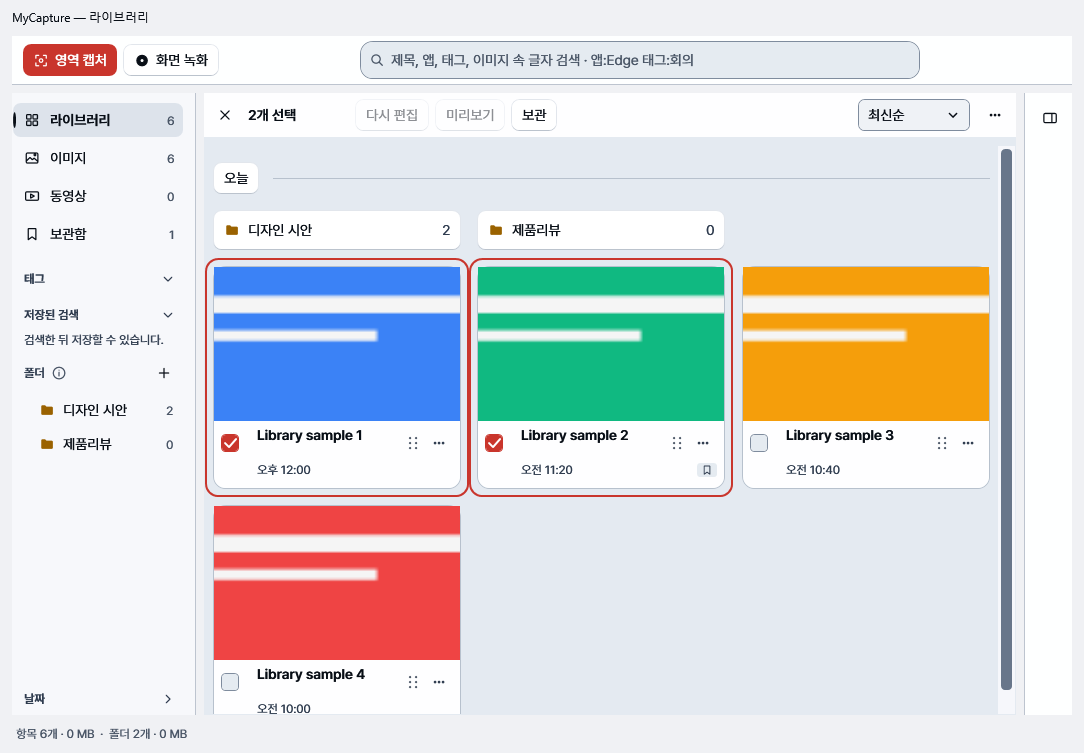
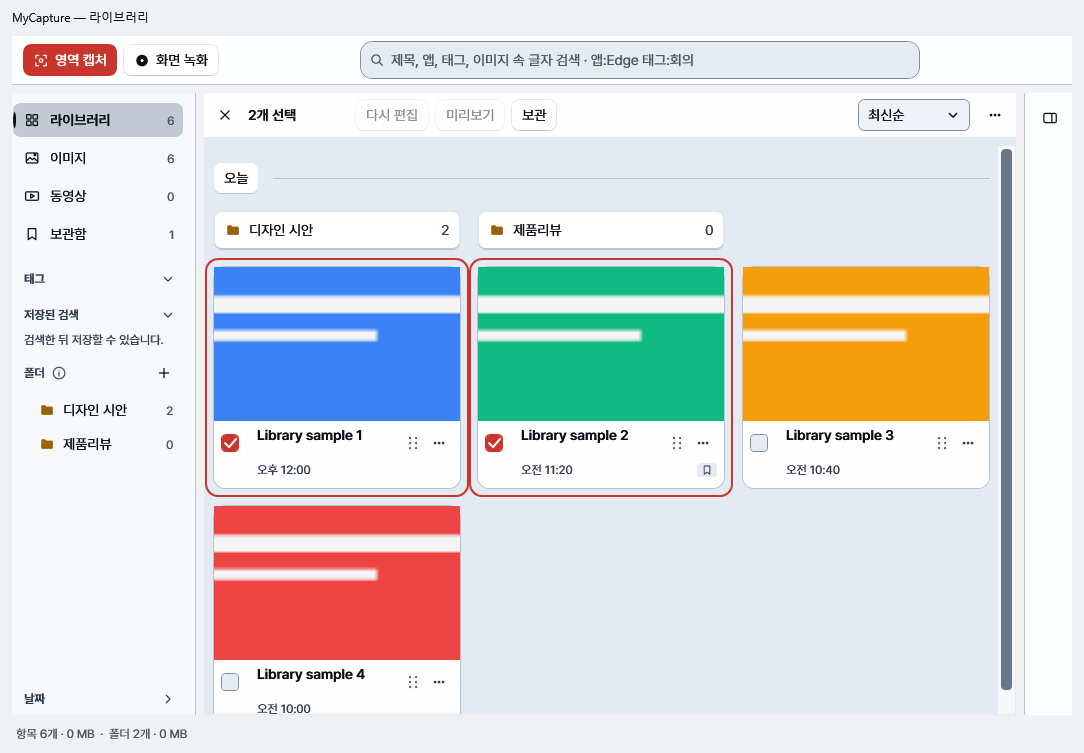
Constrain recycled library rows and strengthen accessible selection states

diff --git a/src/MyCapture.App/Gallery/GalleryWindow.xaml b/src/MyCapture.App/Gallery/GalleryWindow.xaml
@@ -756,10 +756,11 @@
             <Setter Property="FontSize" Value="{DynamicResource FontSize.Body}" />
             <Setter Property="Margin" Value="8" />
             <Setter Property="Padding" Value="10,6" />
+            <Setter Property="BorderThickness" Value="2" />
             <Setter Property="HorizontalContentAlignment" Value="Stretch" />
             <Style.Triggers>
-                <DataTrigger Binding="{Binding IsSelected}" Value="True"><Setter Property="BorderBrush" Value="{DynamicResource Border.Focus}" /></DataTrigger>
                 <DataTrigger Binding="{Binding IsDropAvailable}" Value="True"><Setter Property="BorderBrush" Value="{DynamicResource Accent.Folder}" /></DataTrigger>
+                <DataTrigger Binding="{Binding IsSelected}" Value="True"><Setter Property="BorderBrush" Value="{DynamicResource Accent.Default}" /></DataTrigger>
                 <DataTrigger Binding="{Binding IsDropTarget}" Value="True"><Setter Property="Background" Value="{DynamicResource Surface.Selected}" /><Setter Property="BorderThickness" Value="2" /></DataTrigger>
             </Style.Triggers>
         </Style>
@@ -769,11 +770,17 @@
                     Click="OnFolderCardClick" PreviewKeyDown="OnFolderCardKeyDown">
                 <Grid>
                     <Grid.ColumnDefinitions><ColumnDefinition Width="Auto" /><ColumnDefinition Width="*" /><ColumnDefinition Width="Auto" /></Grid.ColumnDefinitions>
-                    <themes:SymbolIcon StrokeThickness="0" Size="16" Data="{StaticResource LibraryUx.Icon.Folder}" Fill="{DynamicResource Accent.Folder}" VerticalAlignment="Center" />
+                    <themes:SymbolIcon x:Name="FolderGlyph" StrokeThickness="0" Size="16" Data="{StaticResource LibraryUx.Icon.Folder}" Fill="{DynamicResource Accent.Folder}" VerticalAlignment="Center" />
+                    <CheckBox Style="{StaticResource Gallery.SelectionCheckBox}" IsChecked="{Binding IsSelected, Mode=OneWay}"
+                              Visibility="{Binding IsSelected, Converter={StaticResource BoolToVisibility}}" Width="18" MinHeight="18"
+                              IsHitTestVisible="False" Focusable="False" IsTabStop="False" />
                     <TextBlock Grid.Column="1" Text="{Binding Name}" Margin="8,0" TextTrimming="CharacterEllipsis" VerticalAlignment="Center" />
                     <TextBlock Grid.Column="2" Text="{Binding CaptureCount}" Foreground="{DynamicResource Text.Secondary}" VerticalAlignment="Center" />
                 </Grid>
             </Button>
+            <DataTemplate.Triggers>
+                <DataTrigger Binding="{Binding IsSelected}" Value="True"><Setter TargetName="FolderGlyph" Property="Visibility" Value="Hidden" /></DataTrigger>
+            </DataTemplate.Triggers>
         </DataTemplate>
 
         <DataTemplate x:Key="Gallery.FolderRowTemplate" DataType="{x:Type gallery:GalleryFolderRow}">
@@ -788,6 +795,7 @@
         <Style x:Key="Gallery.RowContainer" TargetType="ListBoxItem">
             <Setter Property="Margin" Value="0" />
             <Setter Property="Padding" Value="0" />
+            <Setter Property="MaxWidth" Value="{Binding ActualWidth, RelativeSource={RelativeSource AncestorType=ScrollContentPresenter}}" />
             <Setter Property="HorizontalContentAlignment" Value="Stretch" />
             <Setter Property="Focusable" Value="False" />
             <Setter Property="Template">
@@ -951,7 +959,7 @@
                                 <Border x:Name="Chrome" Background="Transparent" BorderBrush="Transparent" BorderThickness="1"
                                         CornerRadius="{DynamicResource Radius.Md}" />
                                 <Border x:Name="HoverLayer" Style="{StaticResource LibraryUx.HoverWash}" BorderThickness="1" />
-                                <Border x:Name="SelectedLayer" Style="{StaticResource LibraryUx.SelectedWash}" BorderThickness="1" />
+                                <Border x:Name="SelectedLayer" Style="{StaticResource LibraryUx.SelectedWash}" BorderBrush="{DynamicResource Accent.Default}" BorderThickness="2" />
                                 <Border x:Name="Indicator" Style="{StaticResource StatePart.Normal}" Width="3" Height="16" Margin="1,0,0,0"
                                         HorizontalAlignment="Left" VerticalAlignment="Center"
                                         Background="{DynamicResource Text.Primary}" CornerRadius="{DynamicResource Radius.Pill}"
@@ -1010,12 +1018,18 @@
                     <ColumnDefinition Width="*" />
                     <ColumnDefinition Width="Auto" />
                 </Grid.ColumnDefinitions>
-                <themes:SymbolIcon StrokeThickness="0" Size="16" Data="{StaticResource LibraryUx.Icon.Folder}"
+                <themes:SymbolIcon x:Name="FolderGlyph" StrokeThickness="0" Size="16" Data="{StaticResource LibraryUx.Icon.Folder}"
                       Fill="{DynamicResource Accent.Folder}" VerticalAlignment="Center" />
+                <CheckBox Style="{StaticResource Gallery.SelectionCheckBox}" IsChecked="{Binding IsSelected, Mode=OneWay}"
+                          Visibility="{Binding IsSelected, Converter={StaticResource BoolToVisibility}}" Width="18" MinHeight="18"
+                          IsHitTestVisible="False" Focusable="False" IsTabStop="False" />
                 <TextBlock Grid.Column="1" Text="{Binding Name}" ToolTip="{Binding Caption}" Margin="8,0,8,0"
                            VerticalAlignment="Center" TextTrimming="CharacterEllipsis" />
                 <TextBlock Grid.Column="2" Text="{Binding Count}" Style="{StaticResource LibraryUx.NavCount}" />
             </Grid>
+            <HierarchicalDataTemplate.Triggers>
+                <DataTrigger Binding="{Binding IsSelected}" Value="True"><Setter TargetName="FolderGlyph" Property="Visibility" Value="Hidden" /></DataTrigger>
+            </HierarchicalDataTemplate.Triggers>
         </HierarchicalDataTemplate>
 
         <DataTemplate x:Key="LibraryUx.DateItemTemplate" DataType="{x:Type gallery:GalleryFolderNode}">
@@ -1025,11 +1039,17 @@
                     <ColumnDefinition Width="*" />
                     <ColumnDefinition Width="Auto" />
                 </Grid.ColumnDefinitions>
-                <themes:SymbolIcon Size="20" Data="{StaticResource LibraryUx.Icon.Calendar}" Style="{StaticResource LibraryUx.NavGlyph}" />
+                <themes:SymbolIcon x:Name="DateGlyph" Size="20" Data="{StaticResource LibraryUx.Icon.Calendar}" Style="{StaticResource LibraryUx.NavGlyph}" />
+                <CheckBox Style="{StaticResource Gallery.SelectionCheckBox}" IsChecked="{Binding IsSelected, Mode=OneWay}"
+                          Visibility="{Binding IsSelected, Converter={StaticResource BoolToVisibility}}" Width="18" MinHeight="18"
+                          IsHitTestVisible="False" Focusable="False" IsTabStop="False" />
                 <TextBlock Grid.Column="1" Text="{Binding Name}" Margin="8,0,8,0" VerticalAlignment="Center"
                            TextTrimming="CharacterEllipsis" />
                 <TextBlock Grid.Column="2" Text="{Binding Count}" Style="{StaticResource LibraryUx.NavCount}" />
             </Grid>
+            <DataTemplate.Triggers>
+                <DataTrigger Binding="{Binding IsSelected}" Value="True"><Setter TargetName="DateGlyph" Property="Visibility" Value="Hidden" /></DataTrigger>
+            </DataTemplate.Triggers>
         </DataTemplate>
 
         <Style x:Key="LibraryUx.DateItem" TargetType="ListBoxItem">
@@ -1048,7 +1068,7 @@
                             <Border x:Name="Chrome" Background="Transparent" BorderBrush="Transparent" BorderThickness="1"
                                     CornerRadius="{DynamicResource Radius.Md}" />
                             <Border x:Name="HoverLayer" Style="{StaticResource LibraryUx.HoverWash}" BorderThickness="1" />
-                            <Border x:Name="SelectedLayer" Style="{StaticResource LibraryUx.SelectedWash}" BorderThickness="1" />
+                            <Border x:Name="SelectedLayer" Style="{StaticResource LibraryUx.SelectedWash}" BorderBrush="{DynamicResource Accent.Default}" BorderThickness="2" />
                             <Border x:Name="Indicator" Style="{StaticResource StatePart.Normal}" Width="3" Height="16" Margin="1,0,0,0"
                                     HorizontalAlignment="Left" VerticalAlignment="Center"
                                     Background="{DynamicResource Text.Primary}" CornerRadius="{DynamicResource Radius.Pill}"

diff --git a/src/MyCapture.App/Themes/Tokens.xaml b/src/MyCapture.App/Themes/Tokens.xaml
@@ -92,7 +92,7 @@
     <SolidColorBrush x:Key="Surface.Floating" Color="#F2151E2B" />
     <SolidColorBrush x:Key="Surface.Sunken" Color="{StaticResource Primitive.Warm980}" />
     <SolidColorBrush x:Key="Surface.Hover" Color="{StaticResource Primitive.Warm800}" />
-    <SolidColorBrush x:Key="Surface.Selected" Color="#FF303642" />
+    <SolidColorBrush x:Key="Surface.Selected" Color="#FF353B47" />
     <SolidColorBrush x:Key="Surface.Pressed" Color="{StaticResource Primitive.Warm700}" />
     <SolidColorBrush x:Key="Surface.Scrim" Color="#C2080C12" />
     <SolidColorBrush x:Key="Crop.Scrim" Color="#99080C12" />

diff --git a/tests/MyCapture.App.Tests/SettingsThemePreviewTests.AcceptedLibraryLayout.cs b/tests/MyCapture.App.Tests/SettingsThemePreviewTests.AcceptedLibraryLayout.cs
@@ -102,6 +102,7 @@ public sealed partial class SettingsThemePreviewTests
                             var edge = (Border)selected.Template.FindName("SelectedLayer", selected);
                             PumpLibraryUntil(window, () => edge.Opacity >= 0.99, "selected card outline");
                             Assert.Equal(((SolidColorBrush)box.Background).Color, ((SolidColorBrush)edge.BorderBrush).Color);
+                            Assert.Equal(new Thickness(2), edge.BorderThickness);
                             AssertInsideClient(selected, (FrameworkElement)window.Content, theme.ToString());
                             TextBlock title = Descendants(selected).OfType<TextBlock>().Single(text => text.Name == "TileTitle");
                             TextBlock time = Descendants(selected).OfType<TextBlock>().Single(text => text.Name == "TileMetadataText");
@@ -153,10 +154,49 @@ public sealed partial class SettingsThemePreviewTests
                         Assert.NotNull(Assert.IsType<Image>(imagePreview.Content).Source);
                         imagePreview.Close();
                         Assert.True(window.IsVisible);
+                        model.NavigateTo(CaptureFolderScope.All);
+                        var created = PumpUiTask(window, () => model.CreateFolderAsync("선택 상태", CaptureFolderScope.All));
+                        SettleGalleryLayout(window);
+                        Button selectedFolder = FolderCardButtons(rows).Single(button => ((GalleryFolderCardViewModel)button.DataContext).FolderId == created.Id);
+                        Assert.Equal(new Thickness(2), selectedFolder.BorderThickness);
+                        Assert.Equal(((SolidColorBrush)window.FindResource("Accent.Default")).Color, ((SolidColorBrush)selectedFolder.BorderBrush).Color);
+                        AssertVisibleSelectionMark(selectedFolder, window);
+                        TreeViewItem selectedNode = Descendants((TreeView)window.FindName("FolderTree")).OfType<TreeViewItem>()
+                            .Single(item => item.DataContext is GalleryFolderNode node && node.FolderId == created.Id);
+                        AssertSelectedNavigationOutline(selectedNode, window);
+                        SaveLibraryUxEvidence(window, theme, $"selection-folder-{theme}.png");
+                        ((Expander)window.FindName("DateSection")).IsExpanded = true;
+                        model.NavigateTo(model.FolderNodes[0].Scope);
+                        SettleGalleryLayout(window);
+                        ListBoxItem selectedDate = Descendants((ListBox)window.FindName("DateList")).OfType<ListBoxItem>().Single(item => item.IsSelected);
+                        AssertSelectedNavigationOutline(selectedDate, window);
+                        PumpLibraryUntil(window, () => Descendants((TreeView)window.FindName("FolderTree")).OfType<TreeViewItem>()
+                            .All(item => !item.IsSelected && ((Border)item.Template.FindName("SelectedLayer", item)).Opacity <= 0.01), "previous folder selection cleared");
+                        SaveLibraryUxEvidence(window, theme, $"selection-date-{theme}.png");
                     }
                     finally { window.CloseForExit(); }
                 }
             }
             finally { application.Shutdown(); }
         });
+
+    private static void AssertSelectedNavigationOutline(Control selected, Window window)
+    {
+        var border = (Border)selected.Template.FindName("SelectedLayer", selected);
+        PumpLibraryUntil(window, () => border.Opacity >= 0.99, "selected navigation outline");
+        Assert.Equal(new Thickness(2), border.BorderThickness);
+        Assert.Equal(((SolidColorBrush)window.FindResource("Accent.Default")).Color, ((SolidColorBrush)border.BorderBrush).Color);
+        AssertVisibleSelectionMark(selected, window);
+    }
+
+    private static void AssertVisibleSelectionMark(DependencyObject selected, Window window)
+    {
+        CheckBox check = Descendants(selected).OfType<CheckBox>().Single(control => control.IsVisible);
+        Assert.True(check.IsChecked);
+        var box = (Border)check.Template.FindName("SelectionBox", check);
+        var mark = (Path)check.Template.FindName("SelectionCheck", check);
+        Assert.True(mark.IsVisible);
+        Assert.Equal(((SolidColorBrush)window.FindResource("Accent.Default")).Color, ((SolidColorBrush)box.Background).Color);
+        Assert.Equal(((SolidColorBrush)window.FindResource("Text.OnAccent")).Color, ((SolidColorBrush)mark.Stroke).Color);
+    }
 }

diff --git a/tests/MyCapture.App.Tests/SettingsThemePreviewTests.SelectionConsumers.cs b/tests/MyCapture.App.Tests/SettingsThemePreviewTests.SelectionConsumers.cs
@@ -1,0 +1,67 @@
+using System.Windows;
+using System.Windows.Controls;
+using System.Windows.Controls.Primitives;
+using System.Windows.Media;
+using MyCapture.App.Themes;
+using MyCapture.Core.Themes;
+using Xunit;
+
+namespace MyCapture.App.Tests;
+
+public sealed partial class SettingsThemePreviewTests
+{
+    [Fact]
+    public Task SelectionSurfaceConsumersKeepReadableTextAndVisibleChecks() =>
+        RunIsolated(nameof(SelectionSurfaceConsumersKeepReadableTextAndVisibleChecks), () =>
+        {
+            var application = new Application { ShutdownMode = ShutdownMode.OnExplicitShutdown };
+            foreach (string name in new[] { "Tokens", "Symbols", "Controls" })
+                application.Resources.MergedDictionaries.Add(new ResourceDictionary
+                { Source = new Uri($"pack://application:,,,/MyCapture;component/Themes/{name}.xaml") });
+            try
+            {
+                foreach (AppTheme theme in new[] { AppTheme.Midnight, AppTheme.Daylight, AppTheme.HighContrast, AppTheme.Workspace, AppTheme.Glass, AppTheme.GlassLight })
+                {
+                    ThemeService.Apply(theme);
+                    var stack = new StackPanel { Margin = new Thickness(28) };
+                    var check = new CheckBox { Content = "저장 위치 기억", IsChecked = true, Margin = new Thickness(0, 0, 0, 20) };
+                    var tool = new ToggleButton { Content = "T", IsChecked = true,
+                        Style = (Style)application.FindResource("Rail.ToolButton"), HorizontalAlignment = HorizontalAlignment.Left };
+                    stack.Children.Add(check);
+                    stack.Children.Add(tool);
+                    var window = new Window { Title = "설정 체크 · 편집 도구 선택", Content = stack,
+                        Width = 500, Height = 250, ShowActivated = false, ShowInTaskbar = false,
+                        WindowStartupLocation = WindowStartupLocation.Manual, Left = -10000, Top = -10000 };
+                    window.SetResourceReference(Control.BackgroundProperty, "Surface.Base");
+                    FluidMotion.SetWindowEntrance(window, false);
+                    try
+                    {
+                        window.Show();
+                        SettleGalleryLayout(window);
+                        var checkboxFill = (Border)check.Template.FindName("CheckedLayer", check);
+                        var toolFill = (Border)tool.Template.FindName("CheckedLayer", tool);
+                        PumpLibraryUntil(window, () => checkboxFill.Opacity >= 0.99 && toolFill.Opacity >= 0.99, "selected control fills");
+                        object selectedBrush = application.Resources["Surface.Selected"];
+                        Color previous = AppThemeNames.IsLight(theme) ? Color.FromRgb(0xDD, 0xE3, 0xEB) : Color.FromRgb(0x30, 0x36, 0x42);
+                        application.Resources["Surface.Selected"] = new SolidColorBrush(previous);
+                        SettleGalleryLayout(window);
+                        SaveLibraryUxEvidence(window, theme, $"selection-consumers-before-{theme}.png");
+                        application.Resources["Surface.Selected"] = selectedBrush;
+                        SettleGalleryLayout(window);
+                        Color selected = ((SolidColorBrush)selectedBrush).Color;
+                        Assert.Equal(selected, ((SolidColorBrush)checkboxFill.Background).Color);
+                        Assert.Equal(selected, ((SolidColorBrush)toolFill.Background).Color);
+                        var glyph = (System.Windows.Shapes.Path)check.Template.FindName("Check", check);
+                        Assert.True(glyph.IsVisible);
+                        Assert.True(check.IsChecked);
+                        Assert.True(tool.IsChecked);
+                        AssertInsideClient(check, stack, theme.ToString());
+                        AssertInsideClient(tool, stack, theme.ToString());
+                        SaveLibraryUxEvidence(window, theme, $"selection-consumers-after-{theme}.png");
+                    }
+                    finally { window.Close(); }
+                }
+            }
+            finally { application.Shutdown(); }
+        });
+}

diff --git a/tests/MyCapture.App.Tests/AccentUsagePolicyTests.cs b/tests/MyCapture.App.Tests/AccentUsagePolicyTests.cs
@@ -133,6 +133,9 @@ public sealed class AccentUsagePolicyTests
     [InlineData("Gallery.SelectionCheckBox", "<Trigger Property=\"IsChecked\" Value=\"True\"><Setter TargetName=\"SelectionBox\" Property=\"Background\" Value=\"{DynamicResource Accent.Default}\" /></Trigger>")]
     [InlineData("Gallery.SelectionCheckBox", "<Trigger Property=\"IsChecked\" Value=\"True\"><Setter TargetName=\"SelectionBox\" Property=\"BorderBrush\" Value=\"{DynamicResource Accent.Default}\" /></Trigger>")]
     [InlineData("Gallery.TileRowList", "<Border x:Name=\"SelectedLayer\" BorderBrush=\"{DynamicResource Accent.Default}\" />")]
+    [InlineData("LibraryUx.TreeItem", "<Border x:Name=\"SelectedLayer\" BorderBrush=\"{DynamicResource Accent.Default}\" />")]
+    [InlineData("LibraryUx.DateItem", "<Border x:Name=\"SelectedLayer\" BorderBrush=\"{DynamicResource Accent.Default}\" />")]
+    [InlineData("Gallery.FolderStripButton", "<DataTrigger Binding=\"{Binding IsSelected}\" Value=\"True\"><Setter Property=\"BorderBrush\" Value=\"{DynamicResource Accent.Default}\" /></DataTrigger>")]
     public void LibrarySelectionAllowanceDoesNotAuthorizeOtherStylesOrFiles(string style, string part)
     {
         string source = $$"""
@@ -151,9 +154,14 @@ public sealed class AccentUsagePolicyTests
         XElement owner = attribute.Parent!;
         string? style = owner.AncestorsAndSelf().Where(element => element.Name.LocalName == "Style")
             .Select(element => (string?)element.Attribute(names + "Key")).FirstOrDefault(key => key is not null);
-        if (style == "Gallery.TileRowList")
+        if (style is "Gallery.TileRowList" or "LibraryUx.TreeItem" or "LibraryUx.DateItem")
             return owner.Name.LocalName == "Border" && (string?)owner.Attribute(names + "Name") == "SelectedLayer"
                 && attribute.Name.LocalName == "BorderBrush" && attribute.Value == "{DynamicResource Accent.Default}";
+        if (style == "Gallery.FolderStripButton")
+            return owner.Name.LocalName == "Setter" && (string?)owner.Attribute("Property") == "BorderBrush"
+                && attribute.Name.LocalName == "Value" && attribute.Value == "{DynamicResource Accent.Default}"
+                && owner.Parent is { } folderTrigger && folderTrigger.Name.LocalName == "DataTrigger"
+                && (string?)folderTrigger.Attribute("Binding") == "{Binding IsSelected}" && (string?)folderTrigger.Attribute("Value") == "True";
         if (style != "Gallery.SelectionCheckBox") return false;
         if (owner.Name.LocalName == "Path")
             return (string?)owner.Attribute(names + "Name") == "SelectionCheck" && attribute.Name.LocalName == "Stroke"

diff --git a/tests/MyCapture.App.Tests/SettingsThemePreviewTests.LibraryColumns.cs b/tests/MyCapture.App.Tests/SettingsThemePreviewTests.LibraryColumns.cs
@@ -28,7 +28,11 @@ public sealed partial class SettingsThemePreviewTests
     public Task LibraryColumns_WideLayoutIsCoveredWhenTheDesktopCapsTheWindow() =>
         RunLibraryColumnTest(nameof(LibraryColumns_WideLayoutIsCoveredWhenTheDesktopCapsTheWindow), constrainWindow: true);
 
-    private Task RunLibraryColumnTest(string testName, bool constrainWindow) =>
+    [Fact]
+    public Task LibraryColumns_ChangingViewsAfterMixedWindowAndClientWidthsKeepsCardsInside() =>
+        RunLibraryColumnTest(nameof(LibraryColumns_ChangingViewsAfterMixedWindowAndClientWidthsKeepsCardsInside), constrainWindow: false, maximumWidth: 1044);
+
+    private Task RunLibraryColumnTest(string testName, bool constrainWindow, double? maximumWidth = null) =>
         RunIsolated(testName, () =>
         {
             var application = new Application { ShutdownMode = ShutdownMode.OnExplicitShutdown };
@@ -41,7 +45,7 @@ public sealed partial class SettingsThemePreviewTests
             try
             {
                 using var scope = UiText.UseLanguage("ko-KR");
-                VerifyLibraryColumns(constrainWindow);
+                VerifyLibraryColumns(constrainWindow, maximumWidth);
             }
             finally
             {
@@ -50,7 +54,7 @@ public sealed partial class SettingsThemePreviewTests
             }
         });
 
-    private static void VerifyLibraryColumns(bool constrainWindow)
+    private static void VerifyLibraryColumns(bool constrainWindow, double? maximumWidth)
     {
         ThemeService.Apply(AppTheme.Glass);
         LibraryUxFixture f = CreateLibraryUxFixture("mc-library-columns-");
@@ -71,6 +75,7 @@ public sealed partial class SettingsThemePreviewTests
             window.Width = window.MinWidth;
             window.Height = window.MinHeight;
             if (constrainWindow) window.MaxWidth = window.MinWidth;
+            if (maximumWidth.HasValue) window.MaxWidth = maximumWidth.Value;
             window.Show();
             window.SetDetailsPaneOpen(true);
             var rowsList = (ListBox)window.FindName("RowsList");

diff --git a/tests/MyCapture.Core.Tests/SelectionSurfaceContrastTests.cs b/tests/MyCapture.Core.Tests/SelectionSurfaceContrastTests.cs
@@ -1,0 +1,30 @@
+using MyCapture.Core.Themes;
+using Xunit;
+
+namespace MyCapture.Core.Tests;
+
+public sealed class SelectionSurfaceContrastTests
+{
+    [Fact]
+    public void SelectedSurfaceIsStrongerWhileEveryTextRoleRemainsReadable()
+    {
+        foreach (AppTheme theme in Enum.GetValues<AppTheme>())
+        {
+            var colors = ThemeCatalog.ColorsFor(theme);
+            ThemeColor selected = colors["Surface.Selected"];
+            ThemeColor previous = AppThemeNames.IsLight(theme)
+                ? ThemeColor.Rgb(0xDD, 0xE3, 0xEB) : ThemeColor.Rgb(0x30, 0x36, 0x42);
+            foreach (ThemeColor backdrop in new[] { ThemeColor.Rgb(0, 0, 0), ThemeColor.Rgb(255, 255, 255) })
+            {
+                ThemeColor background = ThemeContrast.Composite(colors["Surface.Base"], backdrop);
+                Assert.True(ThemeContrast.Ratio(selected, background) > ThemeContrast.Ratio(previous, background), theme.ToString());
+                foreach (string role in new[] { "Text.Primary", "Text.Secondary", "Text.Muted" })
+                    Assert.True(ThemeContrast.Ratio(colors[role], selected) >= 4.5, $"{theme}/{role}");
+            }
+            int step = AppThemeNames.IsLight(theme) ? -1 : 1;
+            ThemeColor stronger = ThemeColor.Rgb((byte)(selected.R + step), (byte)(selected.G + step), (byte)(selected.B + step));
+            Assert.True(ThemeContrast.Ratio(colors["Text.Muted"], stronger) < 4.5,
+                $"{theme}: selected surface stops at the muted-text contrast boundary");
+        }
+    }
+}

diff --git a/src/MyCapture.Core/Themes/AppTheme.cs b/src/MyCapture.Core/Themes/AppTheme.cs
@@ -102,8 +102,13 @@ public static class ThemeCatalog
         };
         var colors = new Dictionary<string, ThemeColor>(source, StringComparer.Ordinal)
         {
-            ["Surface.Selected"] = AppThemeNames.IsLight(value)
-                ? ThemeColor.Rgb(0xDD, 0xE3, 0xEB) : ThemeColor.Rgb(0x30, 0x36, 0x42),
+            ["Surface.Selected"] = value switch
+            {
+                AppTheme.Daylight or AppTheme.GlassLight => ThemeColor.Rgb(0xC2, 0xC8, 0xD4),
+                AppTheme.HighContrast => ThemeColor.Rgb(0x40, 0x46, 0x52),
+                AppTheme.Workspace => ThemeColor.Rgb(0x43, 0x49, 0x55),
+                _ => ThemeColor.Rgb(0x35, 0x3B, 0x47),
+            },
         };
         colors["Surface.Badge"] = colors["Surface.Raised"];
         colors["Surface.BadgeStrong"] = colors["Surface.Raised"];

diff --git a/docs/reviews/library-editor-490/README.md b/docs/reviews/library-editor-490/README.md
@@ -46,9 +46,24 @@
 
 [검토 당시 삭제된 Assert 포함 행 111개의 개별 대응표](assertion-migration.md)에 이전 단정·새 단정 위치·사용자 결정 근거를 모두 연결했습니다. 집계는 중첩 호출 수가 아니라 diff의 행 수이며 같은 기준의 추가 행은 95개였습니다. 정렬 상태와 배치 단정은 복원했고, 남은 실제 상세 복사 버튼·열린 카드 메뉴의 피드백과 접근성을 보강했습니다.
 
-전체 검사에서 발견한 기존 계약 두 곳도 수락 범위에 맞췄습니다. 강조색 감사는 라이브러리 선택 체크와 테두리의 정확한 네 속성만 허용하며 다른 스타일·파일은 거부하는 역검사를 추가했습니다. 선택 성능 비교는 과거의 배열 투영 계산 방식을 유지하면서 기준 구현의 빈 선택 문구를 새 사양에 맞췄습니다. 체크섬 동등성과 실제 할당량 감소 단정은 유지합니다.
+전체 검사에서 발견한 기존 계약 두 곳도 수락 범위에 맞췄습니다. 강조색 감사는 라이브러리 선택 체크와 카드·폴더·날짜 선택 테두리의 지정 속성만 허용하며 다른 스타일·파일은 거부하는 역검사를 추가했습니다. 선택 성능 비교는 과거의 배열 투영 계산 방식을 유지하면서 기준 구현의 빈 선택 문구를 새 사양에 맞췄습니다. 체크섬 동등성과 실제 할당량 감소 단정은 유지합니다.
 
 분리된 카드 템플릿 검사도 실제 선택 체크 스타일을 함께 불러오도록 맞췄습니다. 자르기 완료의 버튼 검사는 없어진 Ctrl+Enter 표기 버튼 대신 실제 `EditorFlowDone` 버튼을 클릭하며 `Done` 저장 의도까지 검사합니다. Done·Copy·Save 키보드 경로와 자르기 결과·Undo·Redo 단정은 유지합니다. Escape 합성 키 검사는 현재 검사 스레드의 modifier 상태만 잠시 비우고 원래 상태를 복원합니다. 실제 전역 키 입력은 발생시키지 않으며 제품의 Ctrl+Escape 차단 조건도 바꾸지 않습니다.
+
+## 추가 선택 보완과 작은 화면
+
+추가 승인에 따라 폴더 스트립·폴더 트리·날짜 목록에도 2 DIP 강조색 테두리와 채운 체크를 적용했습니다. 폴더와 날짜 아이콘 자리에 체크를 표시하므로 명령이나 열을 새로 늘리지 않습니다. 앱 고대비는 노랑/검정 체크, Windows 고대비는 사용자의 Highlight/HighlightText 매핑을 유지합니다.
+
+[대비 재측정표](selection-contrast.md)는 제품 색상과 WCAG 계산 함수를 사용합니다. 선택 배경은 기존보다 강하게 조정했으며, 본문·보조·설명 글자 모두 4.5:1 이상과 기존 계층 간격을 유지했습니다. 배경 3:1과 글자 가독성이 충돌하므로 요청의 예외대로 글자를 우선하고 선택 신호는 테두리와 체크가 담당합니다.
+
+| 설정 체크·편집 도구 AS-IS | TO-BE |
+| --- | --- |
+| ![기존 공유 선택](evidence/selection-consumers-before-GlassLight.png) | ![강해진 공유 선택](evidence/selection-consumers-after-GlassLight.png) |
+
+![폴더 선택](evidence/selection-folder-Glass.png)
+![날짜 목록 선택](evidence/selection-date-GlassLight.png)
+
+원격 검사에서 발견한 작은 화면의 카드 잘림은 1044 DIP 최대 창으로 로컬에서도 재현했습니다. 실제 창 폭과 논리적 콘텐츠 폭 변경을 섞은 뒤 날짜 보기로 이동하면 재활용 행의 이전 폭이 남았습니다. 행의 MaxWidth를 실제 ScrollContentPresenter 폭에 연결해 고쳤으며 가상화, 기존 열 경계 검사, 카드·명령의 화면 내부 검사는 모두 유지했습니다.
 
 ## 직접 확인 항목
 

diff --git a/docs/reviews/library-editor-490/selection-contrast.md b/docs/reviews/library-editor-490/selection-contrast.md
@@ -1,0 +1,18 @@
+# 선택 배경 대비 재측정
+
+제품 ThemeCatalog 및 ThemeContrast로 계산했습니다. 배경 ARGB를 검정/흰색 바탕에 먼저 합성하고 전경을 합성한 뒤 WCAG 상대 휘도 비율을 계산합니다. 기존 감사와 같은 합성 순서입니다. Windows 사용자 시스템색은 읽지 않았습니다.
+
+| 테마 | 바탕 | AS-IS 선택/기본 | TO-BE 선택/기본 | 본문/선택 | 보조/선택 | 설명/선택 | 선택 색 |
+| --- | --- | ---: | ---: | ---: | ---: | ---: | --- |
+| Midnight | 불투명 | 1.5818 | 1.7060 | 11.2423 | 7.3063 | 4.5094 | #353B47 |
+| Daylight | 불투명 | 1.2160 | 1.5812 | 11.1911 | 6.6519 | 4.5075 | #C2C8D4 |
+| HighContrast | 불투명 | 1.7320 | 2.2159 | 9.4770 | 6.7792 | 4.5199 | #404652 |
+| Workspace | 불투명 | 1.4319 | 1.9203 | 9.0406 | 6.4698 | 4.5197 | #434955 |
+| Glass | 검정 | 1.4750 | 1.5908 | 11.2423 | 7.3063 | 4.5094 | #353B47 |
+| Glass | 흰색 | 1.3401 | 1.4453 | 11.2423 | 7.3063 | 4.5094 | #353B47 |
+| GlassLight | 검정 | 1.1434 | 1.4867 | 11.5294 | 6.6519 | 4.5075 | #C2C8D4 |
+| GlassLight | 흰색 | 1.2160 | 1.5812 | 11.5294 | 6.6519 | 4.5075 | #C2C8D4 |
+
+선택/기본 3:1 목표보다 글자 가독성을 우선한 요청의 예외를 적용했습니다. 모든 본문·보조·설명 글자가 4.5:1 이상이며 기존 글자 계층 대비도 유지합니다. 같은 색상 방향으로 배경을 한 단계 더 강하게 하면 설명 글자가 4.5:1 미만이 되는 경계를 자동 검사합니다. 선택 신호는 카드·폴더·날짜 목록의 2 DIP 강조색 테두리와 채운 체크가 맡습니다. 앱 HighContrast의 체크는 노랑/검정 쌍이며, Windows 고대비에서는 기존 Highlight/HighlightText와 Window/WindowText 사용자 설정 매핑을 보존합니다.
+
+Surface.Selected를 공유하는 설정 체크박스와 편집 도구 선택 컨트롤도 실제 제품 템플릿으로 전후 렌더링했습니다. AS-IS는 같은 fixture에서 이전 토큰 값만 적용한 비교 화면이며, 설치 앱의 실사용 스크린샷은 아닙니다.
